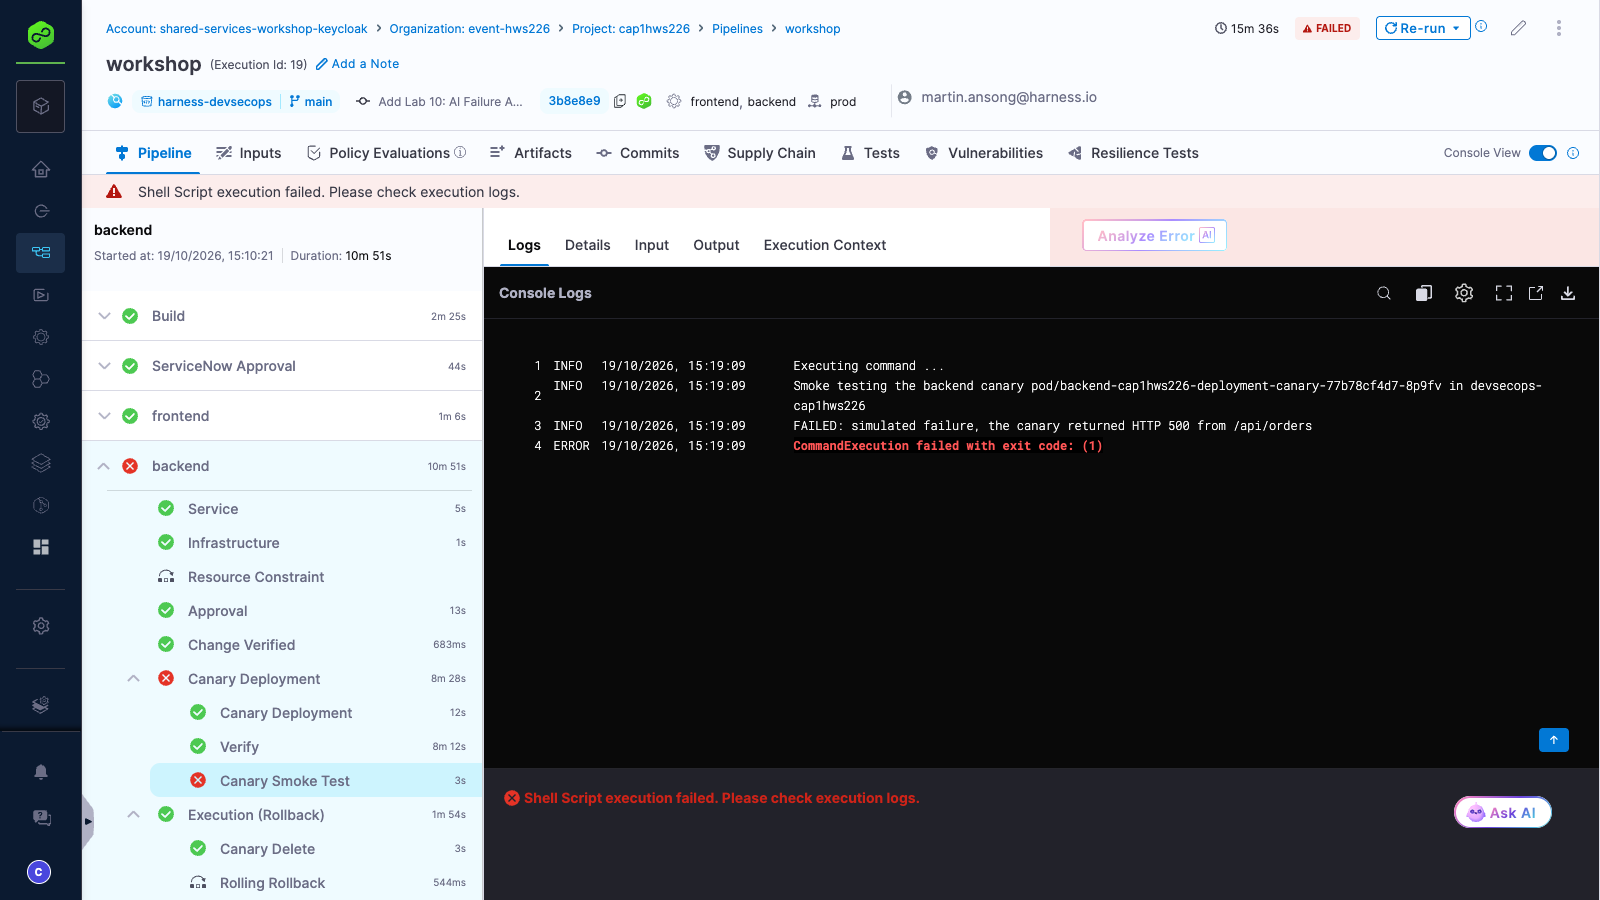
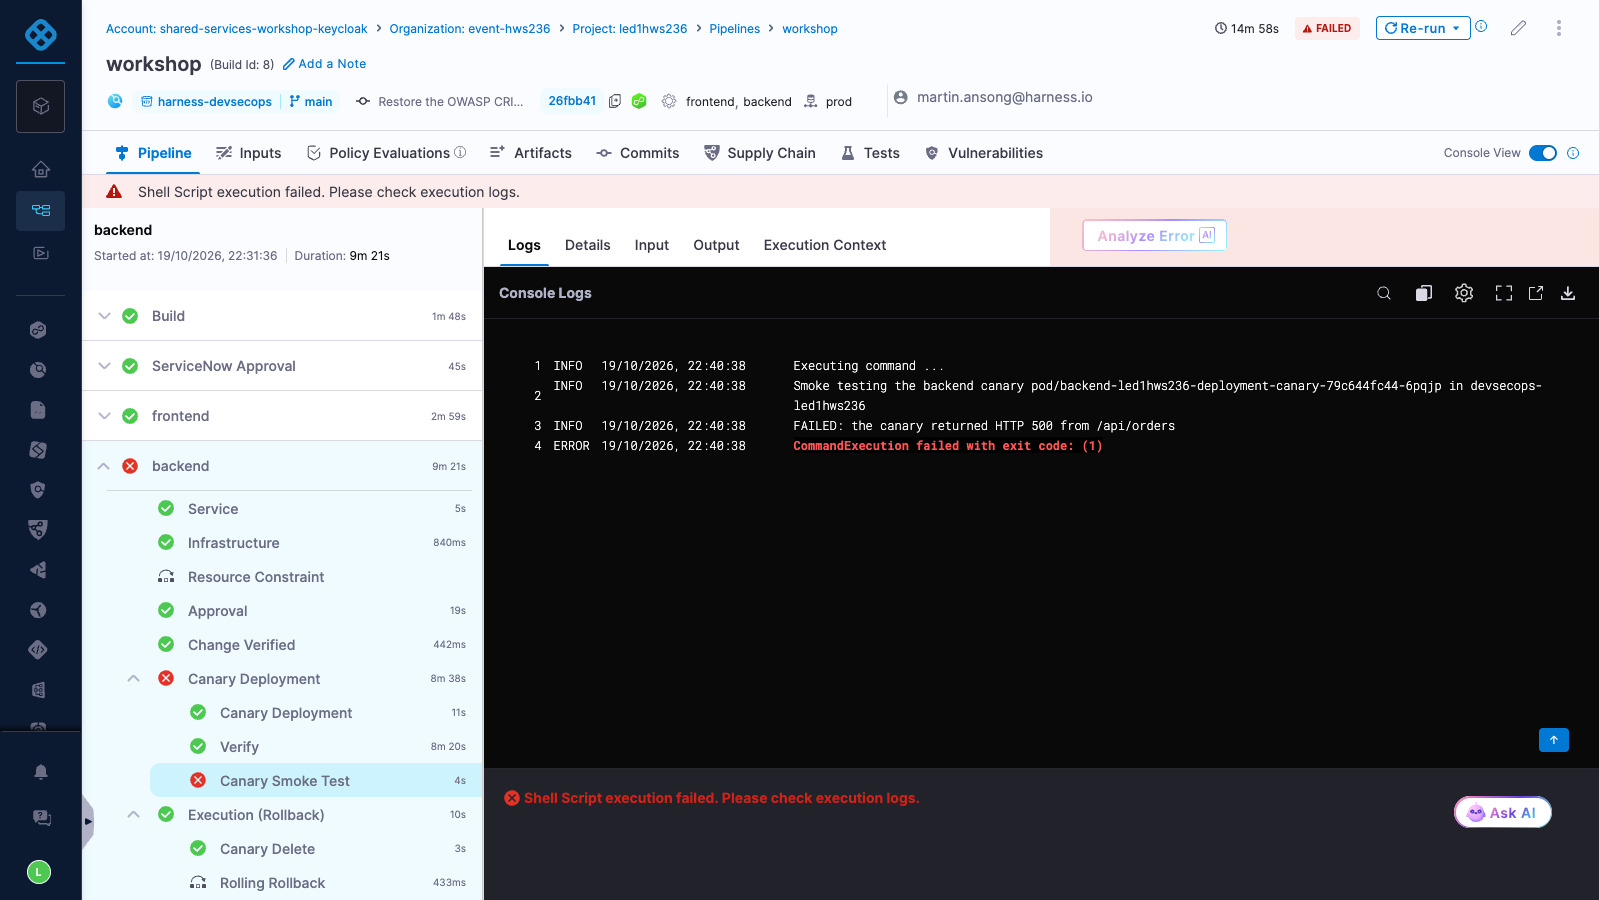
Add Lab 10 screenshots and refresh the Lab 9 rollback image
Lab 10 gains images for the Failure Analyst YAML, the rollback steps,
the agent logs, the Publish Analysis output and the ServiceNow work note,
and Step 3 now points to the failure_analyst_1 step inside the Failure
Analyst group. The Lab 9 rollback run image shows the Canary Smoke Test
failure instead of the removed simulated failure. Lab 1 documents the
Third-Party Artifact Registry type on the Docker step.

diff --git a/README.md b/README.md
@@ -137,6 +137,7 @@ Navigate to the **Execution** tab and add the following steps:
 | Input      | Value     | Notes |
 | ---------- | ----------------------  | ----- |
 | Name | <pre>`Push to DockerHub`</pre>||
+| Registry Type | Third-Party Artifact Registry | The default is Artifact Registry; select Third-Party to choose a Docker connector |
 | Docker Connector | dockerhub ||
 | Docker Repository | <pre>`nikpap/harness-workshop`</pre>||
 | Tags | <pre>`<+variable.username>-<+pipeline.sequenceId>`</pre>| Click on the pin and select expression and paste the value |
@@ -874,6 +875,8 @@ Your project has been provisioned with a **Failure Analyst** Worker Agent (ident
 2. Select the **Custom** tab and open **Failure Analyst**
 3. Switch to the **YAML** tab. The definition is the following
 
+![Failure Analyst YAML](images/lab10-agent-yaml.png "Failure Analyst YAML")
+
 ```yaml
 agent:
   uses: harnessAI@1.0.0
@@ -933,13 +936,23 @@ agent:
 6. On the step's **Advanced** tab, under **Conditional Execution**, select **Always execute this step**, and set the **Failure Strategy** for **All Errors** to **Ignore**, so the work note is recorded even if the agent fails and **Close Failed Ticket** still runs
 7. Apply the changes and **Save** the pipeline. The rollback steps are now **Canary Delete**, **Rolling Rollback**, **Failure Analysis**, **Record Failure Analysis** and **Close Failed Ticket**
 
+![Rollback steps with Failure Analysis](images/lab10-rollback-studio.png "Rollback steps with Failure Analysis")
+
 ---
 
 ### Step 3: Run and Review
 1. Click **Run**, approve the change in ServiceNow and approve the Harness Approval steps as before
 2. The **Canary Smoke Test** from Lab 9 fails and Harness rolls the stage back
-3. Expand the **Failure Analysis** step group and open **Failure Analyst**. The logs show the agent diagnosing the execution with the Harness MCP tools and reasoning about the results. Open **Publish Analysis**: its **Output** tab shows **FAILURE_CATEGORY** and **FAILURE_SUMMARY**, which the **Record Failure Analysis** step reads with `<+pipeline.stages.backend.spec.execution.rollbackSteps.Failure_Analysis.steps.Publish_Analysis.output.outputVariables.FAILURE_SUMMARY>`
-4. Open the change request in ServiceNow. The **Notes** tab has a work note from the Failure Analyst with the root cause, and the change is **Closed** with close code **Unsuccessful**
+3. Expand the **Failure Analysis** step group, then expand **Failure Analyst** and open **failure_analyst_1**. The logs show the agent diagnosing the execution with the Harness MCP tools, reasoning about the results and finishing with its failure analysis summary
+
+![Failure Analyst logs](images/lab10-agent-run.png "Failure Analyst logs")
+
+4. Open **Publish Analysis**: its **Output** tab shows **FAILURE_CATEGORY** and **FAILURE_SUMMARY**, which the **Record Failure Analysis** step reads with `<+pipeline.stages.backend.spec.execution.rollbackSteps.Failure_Analysis.steps.Publish_Analysis.output.outputVariables.FAILURE_SUMMARY>`
+
+![Publish Analysis output](images/lab10-publish-output.png "Publish Analysis output")
+5. Open the change request in ServiceNow. The **Notes** tab has a work note from the Failure Analyst with the root cause, and the change is **Closed** with close code **Unsuccessful**
+
+![Failure Analyst work note](images/lab10-snow-worknote.png "Failure Analyst work note")
 
 ---
 
